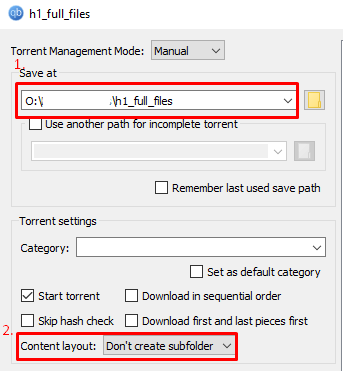
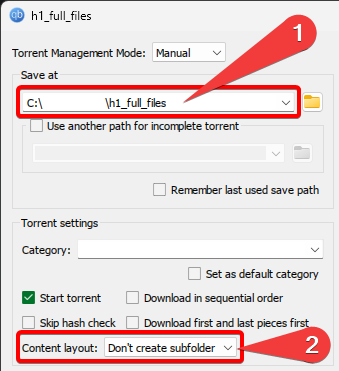
added utility by skkuull and other fixes (#6)

diff --git a/docusaurus.config.js b/docusaurus.config.js
@@ -26,7 +26,7 @@ const config = {
         docs: {
           sidebarPath: require.resolve('./sidebars.js'),
           // Please change this to your repo.
-          editUrl: 'https://github.com/h1-mod/website/tree/docs/edit',
+          editUrl: 'https://github.com/h1-mod/docs/blob/main',
 	  routeBasePath: '/',
         },
 	blog: false,

diff --git a/docs/errors.md b/docs/errors.md
@@ -6,11 +6,13 @@
 
 1. Create a shortcut of H1-Mod on your desktop.
 2. Right click the shortcut, and press "Properties".
-3. In the "Target" section, after the quotation marks (""), please add **-memoryfix** and click apply. (Picture below for reference). This should generate a valid `players2` folder, and after that, you can remove the memory fix parameter.
+3. In the "Target" section, after the quotation marks (""), please add **-memoryfix** and click apply. 
+![](/img/memoryfix.png)
+This should generate a valid `players2` folder, and after that, you can remove the memory fix parameter.
 
 ## "MISSING FILE" error
 
-- The inability to load the necessary files (`MISSING FILE eng_code_pre_gfx_mp.ff`) usually happens due to file structure in Steam version and can be fixed by doing the following:
+- The inability to load the necessary files (`MISSING FILE eng_code_pre_gfx_mp.ff`) usually happens due to file structure in Steam version and can be fixed by using [MWR Files Cleaner](https://github.com/skkuull/mwr-files-cleaner) or doing the following:
 
 1. Move all .bik files to `/raw/video/` folder
 2. Move all .ff, .pak files and localization folder (`english` or any other) to `/zone/` folder

diff --git a/docs/install.md b/docs/install.md
@@ -12,7 +12,8 @@ Torrenting copyright protected files might not be legal in your country even if 
 
 2. Download and open the torrent file [h1_full_files.torrent](https://h1.gg/h1_full_files.torrent)
 
-3. Once it is open, there will be a dialogue box, where you will be able to specify the saving location. We highly recommend making a separate "Games" folder in order to do this (for example C:\Games) (**ADD IMAGE HERE**)
+3. Once it is open, there will be a dialogue box, where you will be able to specify the saving location. We highly recommend making a separate "Games" folder in order to do this (for example C:\Games)
+![](/img/torrent-initial.png)
 
 ## "I already have the Steam version" / "I don't have the DLC"
 
